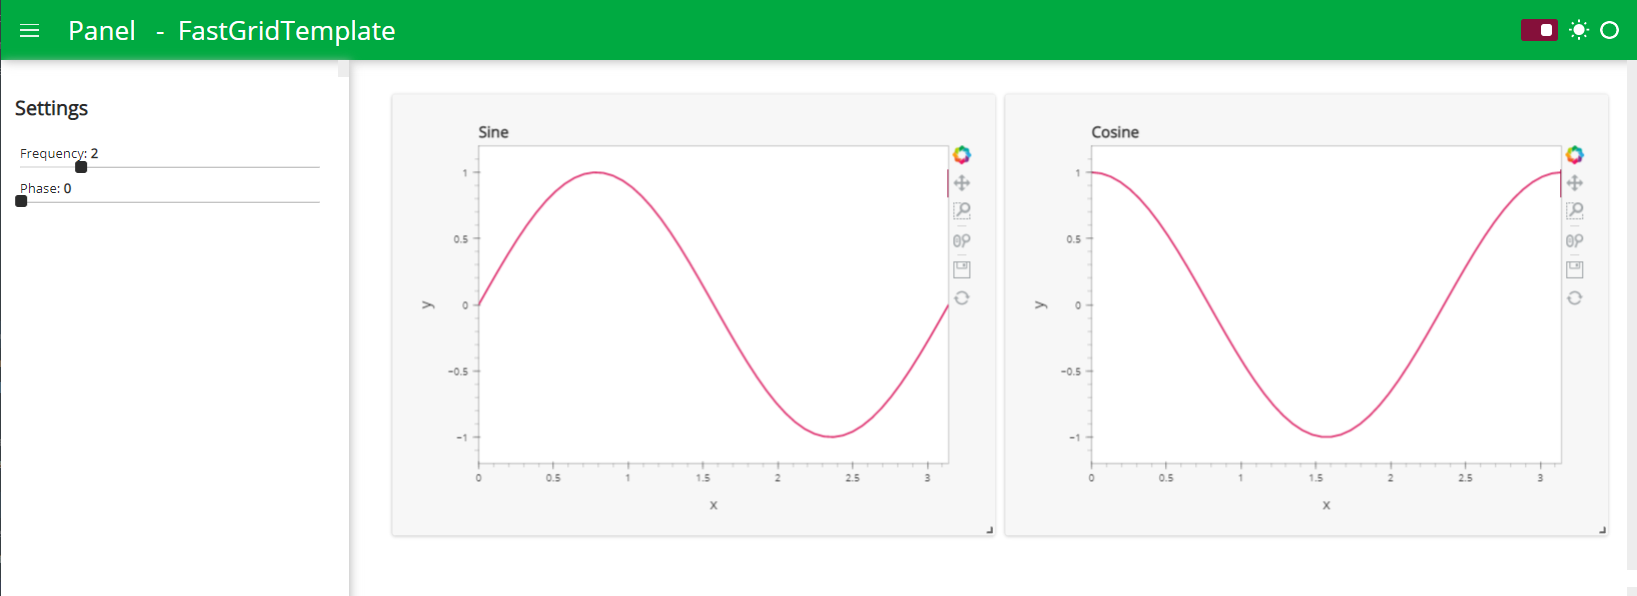
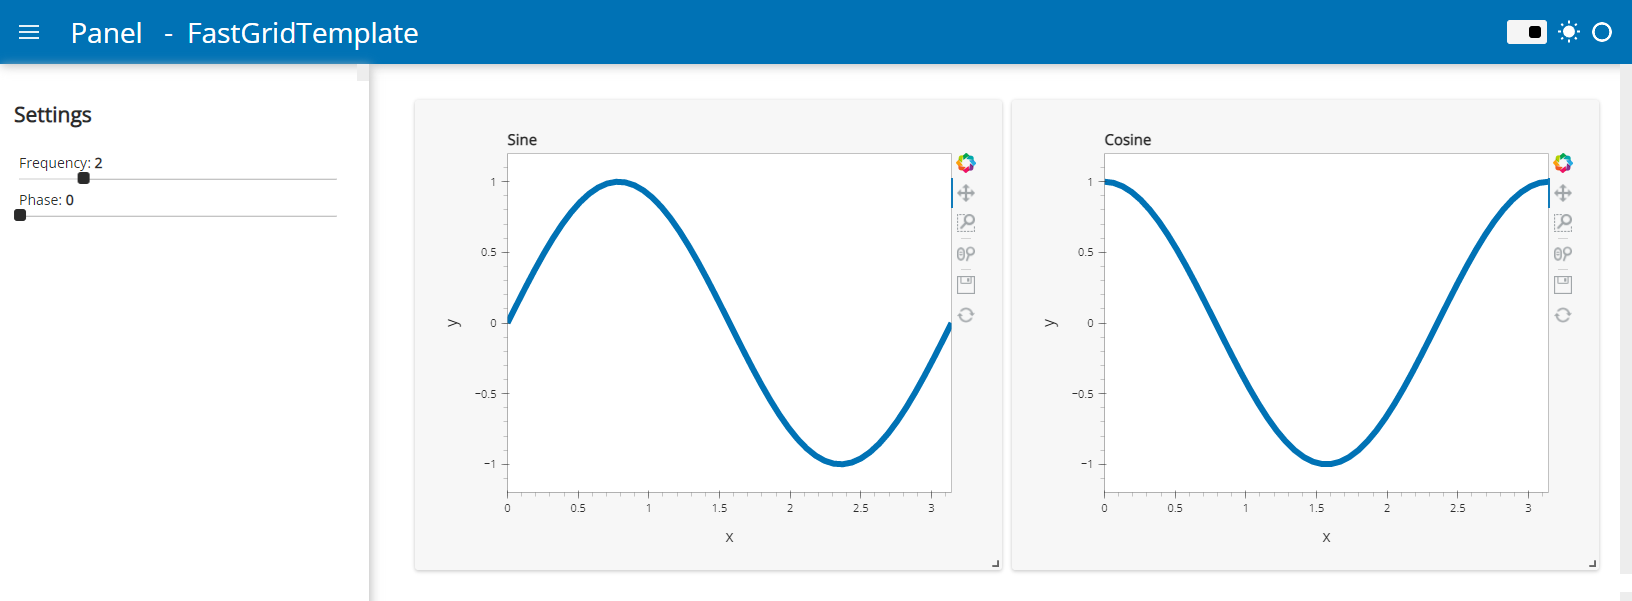
update reference examples

diff --git a/panel/template/fast/base.py b/panel/template/fast/base.py
@@ -12,7 +12,7 @@ _ROOT = pathlib.Path(__file__).parent
 
 class FastBaseTemplate(BasicTemplate):
 
-    accent_base_color = param.String(doc="""
+    accent_base_color = param.String(default="#0072B5", doc="""
         Optional body accent color override.""")
 
     background_color = param.String(doc="""
